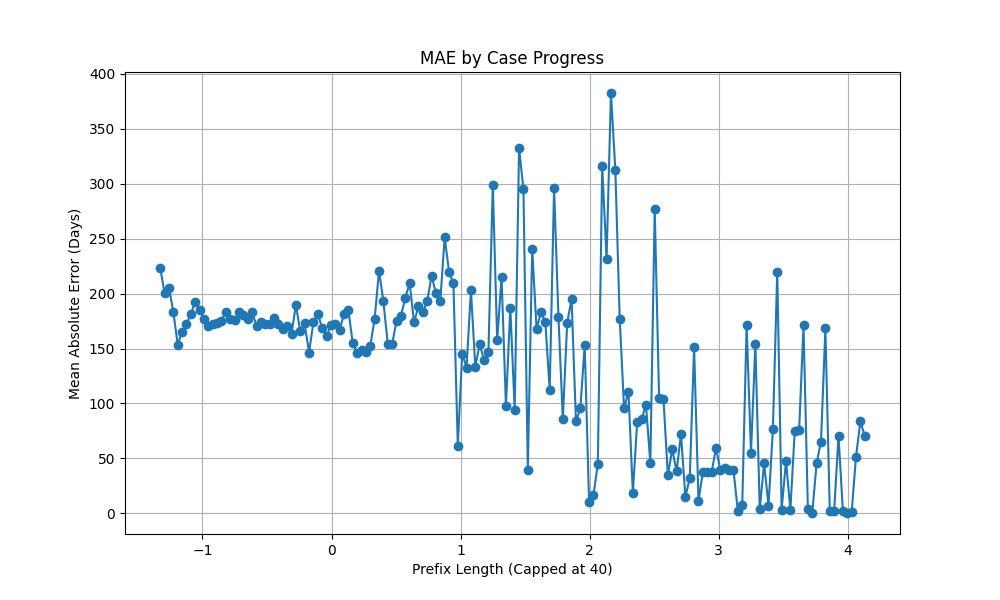
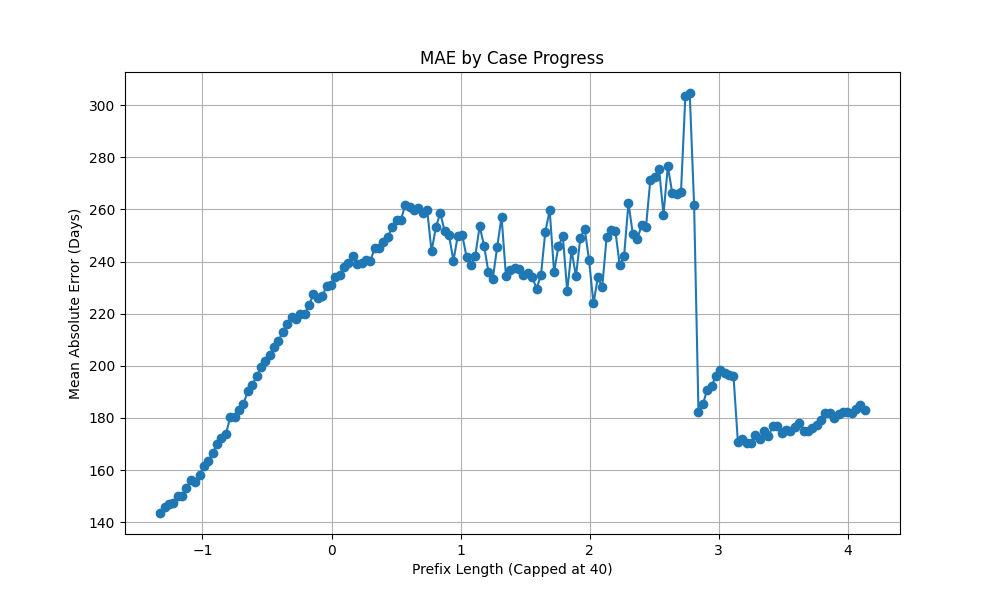
fix: optimize control flow features and simplify data preparation
- Resolved feature lag in transformers.py by using the current activity as the state ID.
- Implemented a symmetric co-occurrence matrix for improved event clustering.
- Simplified the data preparation and target encoding logic in prep.py.
- Updated experiment scenarios in train.py to include current state features for better prediction accuracy.

diff --git a/src/feature_engineering/transformers.py b/src/feature_engineering/transformers.py
@@ -8,6 +8,7 @@ from sklearn.preprocessing import normalize
 def add_temporal_features(df):
     """
     Temporal features: Weekday, Week number, Month number, Time since last, Elapsed.
+    Also calculates the target variable (remaining_time_days).
     """
     df = df.copy()
     print("  - Adding Temporal Features...")
@@ -17,17 +18,18 @@ def add_temporal_features(df):
 
     df = df.sort_values([config.COL_CASE_ID, config.COL_DATE])
 
+    # Basic time components
     df['Weekday'] = df[config.COL_DATE].dt.dayofweek
     df['Month_number'] = df[config.COL_DATE].dt.month
     df['Week_number'] = df[config.COL_DATE].dt.isocalendar().week.astype(int)
 
+    # Durations within the case
     df['case_start'] = df.groupby(config.COL_CASE_ID)[config.COL_DATE].transform('min')
     df['Elapsed_time'] = (df[config.COL_DATE] - df['case_start']).dt.total_seconds().div(86400)
     df['Time_since_last_event'] = df.groupby(config.COL_CASE_ID)[config.COL_DATE].diff().dt.total_seconds().div(
         86400).fillna(0)
 
-    # Target Variable (Remaining Time)
-    # Note: For active cases, this is censored (Time until last observed event)
+    # Target Variable: Remaining Time
     df['case_end'] = df.groupby(config.COL_CASE_ID)[config.COL_DATE].transform('max')
     df['remaining_time_days'] = (df['case_end'] - df[config.COL_DATE]).dt.total_seconds().div(86400)
 
@@ -36,68 +38,67 @@ def add_temporal_features(df):
 
 def add_control_flow_features(df, n_clusters=10, top_n_events=50):
     """
-    1. Last Two Events
-    2. Top 50 Frequent Events (Cumulative)
-    3. Clustering (Co-occurrence + K-Means)
+    1. Sets current activity as the state (Last_event_ID).
+    2. Calculates cumulative event counts (Process Memory).
+    3. Groups transitions using a symmetric co-occurrence matrix.
     """
     print(f"  - Adding Control Flow Features (Events={top_n_events}, Clusters={n_clusters})...")
     df = df.sort_values([config.COL_CASE_ID, config.COL_DATE])
+    case_col = config.COL_CASE_ID
+    act_col = config.COL_ACTIVITY
 
-    # 1. Last Two Events
-    df['Last_event_ID'] = df.groupby(config.COL_CASE_ID)[config.COL_ACTIVITY].shift(1).fillna('Start')
-    df['Second_last_event_ID'] = df.groupby(config.COL_CASE_ID)[config.COL_ACTIVITY].shift(2).fillna('Start')
+    # 1. Immediate State (Technique from encode_last_two_event_ids)
+    # Corrects the MAE by ensuring the model sees the CURRENT state.
+    df['Last_event_ID'] = df[act_col]
+    df['Second_last_event_ID'] = df.groupby(case_col)[act_col].shift(1)
 
-    # 2. Top 50 Events (Cumulative Counts)
-    event_counts = df[config.COL_ACTIVITY].value_counts()
+    # 2. Cumulative Event Counts (Technique from encode_event_counts)
+    event_counts = df[act_col].value_counts()
     top_events = event_counts.head(top_n_events).index.tolist()
 
-    # Create dummies
-    dummies_events = pd.get_dummies(df[config.COL_ACTIVITY]).reindex(columns=top_events, fill_value=0)
+    dummies_events = pd.get_dummies(df[act_col]).reindex(columns=top_events, fill_value=0)
     dummies_events.columns = [f"Event_{e}" for e in dummies_events.columns]
 
-    # 3. Clustering
-    print("    * Generating Co-occurrence Clusters...")
-    unique_events = sorted(df[config.COL_ACTIVITY].unique())
-    event_to_idx = {e: i for i, e in enumerate(unique_events)}
-    n_unique = len(unique_events)
-    df['move_id'] = df[config.COL_ACTIVITY].map(event_to_idx)
+    # 3. Transition Clustering (Technique from build_cooccurrence_matrix & cluster_events)
+    # Captures context by building a symmetric matrix of event adjacencies.
+    unique_events = sorted(df[act_col].unique())
+    e_to_i = {e: i for i, e in enumerate(unique_events)}
+    matrix = np.zeros((len(unique_events), len(unique_events)))
 
-    # Build Co-occurrence Matrix
-    matrix = np.zeros((n_unique, n_unique))
-    traces = df.groupby(config.COL_CASE_ID)['move_id'].apply(list)
+    traces = df.groupby(case_col)[act_col].apply(lambda x: [e_to_i[ev] for ev in x])
     for trace in traces:
         for i in range(len(trace) - 1):
             u, v = trace[i], trace[i + 1]
             matrix[u, v] += 1
-            matrix[v, u] += 1
+            matrix[v, u] += 1  # Ensure symmetry as used in the reference
 
-    # Cluster (K-Means)
     mat_norm = normalize(matrix, norm='l2', axis=1)
     kmeans = KMeans(n_clusters=n_clusters, random_state=42, n_init=10)
-    labels = kmeans.fit_predict(mat_norm)
+    event_cluster_map = {ev: str(lab) for ev, lab in zip(unique_events, kmeans.fit_predict(mat_norm))}
+    df['Cluster'] = df[act_col].map(event_cluster_map)
 
-    event_cluster_map = {event: str(label) for event, label in zip(unique_events, labels)}
-    df['Cluster'] = df[config.COL_ACTIVITY].map(event_cluster_map).fillna('Unknown')
-
-    # Cluster Dummies
+    # 4. Cluster Dummies (Technique from encode_cluster_counts)
     dummies_clusters = pd.get_dummies(df['Cluster'], prefix='Cluster')
-    expected_clusters = [f"Cluster_{i}" for i in range(n_clusters)]
-    dummies_clusters = dummies_clusters.reindex(columns=expected_clusters, fill_value=0)
+    cluster_cols = [f"Cluster_{i}" for i in range(n_clusters)]
+    dummies_clusters = dummies_clusters.reindex(columns=cluster_cols, fill_value=0)
 
-    # Combine & Cumsum
+    # 5. Apply Case-level Cumulative Sum
+    # Transforms instantaneous events into a historical record.
     df = pd.concat([df, dummies_events, dummies_clusters], axis=1)
-    cols_to_cumsum = dummies_events.columns.tolist() + expected_clusters
-    df[cols_to_cumsum] = df.groupby(config.COL_CASE_ID)[cols_to_cumsum].cumsum()
+    cols_to_cumsum = dummies_events.columns.tolist() + cluster_cols
+    df[cols_to_cumsum] = df.groupby(case_col)[cols_to_cumsum].cumsum()
 
-    # Cleanup
-    if 'move_id' in df.columns: del df['move_id']
-    df['prefix_length'] = df.groupby(config.COL_CASE_ID).cumcount() + 1
+    df['prefix_length'] = df.groupby(case_col).cumcount() + 1
 
     return df
 
 
 def add_judge_change_feature(df):
-    if config.COL_RESOURCE not in df.columns: return df
+    """
+    Detects if the resource (judge) has changed compared to the previous event.
+    """
+    if config.COL_RESOURCE not in df.columns:
+        return df
 
     print("  - Adding Judge Change Detection...")
     df = df.sort_values([config.COL_CASE_ID, config.COL_DATE])

diff --git a/src/modeling/prep.py b/src/modeling/prep.py
@@ -1,99 +1,43 @@
-import pandas as pd
-import numpy as np
 from src import config
 from sklearn.preprocessing import StandardScaler
 
-
-def target_encode_fit(train_df, cat_cols, target_col):
-    mappings = {}
-    global_mean = train_df[target_col].mean()
+def target_encode(train_df, test_df, cat_cols, target, m=50):
+    """Simple smoothing target encoder."""
+    global_mean = train_df[target].mean()
     for col in cat_cols:
-        stats = train_df.groupby(col)[target_col].agg(['mean', 'count'])
-
-        # [ADJUSTED] Lower smoothing for Control Flow to capture path-specific signals
-        m = 2 if col in ['Last_event_ID', 'Cluster'] else 10
-
-        smooth_mean = (stats['count'] * stats['mean'] + m * global_mean) / (stats['count'] + m)
-        mappings[col] = smooth_mean.to_dict()
-        mappings[col]['__global__'] = global_mean
-    return mappings
-
-def target_encode_transform(df, mappings, cat_cols):
-    """
-    Applies fitted Target Encoding mappings.
-    """
-    df_encoded = pd.DataFrame(index=df.index)
-    for col in cat_cols:
-        if col in mappings:
-            global_val = mappings[col]['__global__']
-            df_encoded[f"{col}_te"] = df[col].map(mappings[col]).fillna(global_val)
-    return df_encoded
+        stats = train_df.groupby(col)[target].agg(['mean', 'count'])
+        smooth = (stats['count'] * stats['mean'] + m * global_mean) / (stats['count'] + m)
+        mapping = smooth.to_dict()
+        train_df[f"{col}_te"] = train_df[col].map(mapping).fillna(global_mean)
+        test_df[f"{col}_te"] = test_df[col].map(mapping).fillna(global_mean)
+    return train_df, test_df
 
 def split_and_prepare_data(df):
-    print("- Starting Advanced Data Preparation (with Prefix Sampling)...")
-    target_col = 'remaining_time_days'
+    target = 'remaining_time_days'
+    df = df.dropna(subset=[target]).copy()
 
-    # [PAPER LOGIC] Ensure we are only training on prefixes of cases that actually have a remaining time
-    df = df.dropna(subset=[target_col]).copy()
+    # Features
+    num_cols = [c for c in df.columns if any(c.startswith(p) for p in ['Event_', 'Cluster_', 'judge_workload'])]
+    num_cols += ['Elapsed_time', 'Time_since_last_event', 'prefix_length', 'judge_changed']
+    cat_cols = ['Last_event_ID', 'Second_last_event_ID', 'Cluster'] + [a for a in config.CASE_ATTRIBUTES if a in df.columns]
 
-    # 1. Feature Groups (Same as before)
-    cols_events = [c for c in df.columns if c.startswith('Event_')]
-    cols_clusters = [c for c in df.columns if c.startswith('Cluster_') and c[8:].isdigit()]
-    cols_intercase = [c for c in ['section_wip', 'state_load_30d'] if c in df.columns]
-    cols_workload = ['judge_workload', 'judge_workload_ratio'] if 'judge_workload' in df.columns else []
-    cols_temporal = ['Elapsed_time', 'Time_since_last_event', 'Month_number', 'Weekday', 'Week_number']
+    # Temporal Split
+    cases = df.groupby(config.COL_CASE_ID)['case_start'].min().sort_values().index.tolist()
+    split_idx = int(len(cases) * 0.7)
+    train_df = df[df[config.COL_CASE_ID].isin(cases[:split_idx])].copy()
+    test_df = df[df[config.COL_CASE_ID].isin(cases[split_idx:])].copy()
 
-    cols_attrs_num = []
-    cols_attrs_cat = []
-    for attr in config.CASE_ATTRIBUTES:
-        if attr in df.columns:
-            if pd.api.types.is_numeric_dtype(df[attr]):
-                cols_attrs_num.append(attr)
-            else:
-                cols_attrs_cat.append(attr)
-
-    numeric_cols = cols_attrs_num + cols_temporal + cols_events + cols_clusters + cols_intercase + cols_workload + [
-        'prefix_length', 'judge_changed']
-    numeric_cols = [c for c in numeric_cols if c in df.columns]
-
-    cat_cols = ['Last_event_ID', 'Second_last_event_ID', 'Cluster'] + cols_attrs_cat
-    cat_cols = [c for c in cat_cols if c in df.columns]
-
-    # 2. Temporal Split
-    case_starts = df.groupby(config.COL_CASE_ID)['case_start'].min().sort_values()
-    cases = case_starts.index.tolist()
-    n = len(cases)
-    train_idx, val_idx = int(n * 0.70), int(n * 0.85)
-
-    train_df = df[df[config.COL_CASE_ID].isin(cases[:train_idx])].copy()
-    val_df = df[df[config.COL_CASE_ID].isin(cases[train_idx:val_idx])].copy()
-    test_df = df[df[config.COL_CASE_ID].isin(cases[val_idx:])].copy()
-
-    # [NEW] Data Balancing: If a case has 200 events, it might over-represent its path.
-    # The paper uses "Strict Prefixes". We ensure we sample fairly.
-    print(f"  - Target Encoding: {cat_cols}")
-    te_mappings = target_encode_fit(train_df, cat_cols, target_col)
-
-    for col in numeric_cols:
-        mean_val = train_df[col].mean()
-        for d in [train_df, val_df, test_df]: d[col] = d[col].fillna(mean_val)
-
+    # Encode & Scale
+    train_df, test_df = target_encode(train_df, test_df, cat_cols, target)
     scaler = StandardScaler()
-    scaler.fit(train_df[numeric_cols])
+    train_df[num_cols] = scaler.fit_transform(train_df[num_cols].fillna(0))
+    test_df[num_cols] = scaler.transform(test_df[num_cols].fillna(0))
 
-    def process(sub_df):
-        if sub_df.empty: return None, None
-        X_num = pd.DataFrame(scaler.transform(sub_df[numeric_cols]), columns=numeric_cols, index=sub_df.index)
-        X_cat = target_encode_transform(sub_df, te_mappings, cat_cols)
-        X = pd.concat([sub_df[[config.COL_CASE_ID, 'case_start']].reset_index(drop=True),
-                       X_num.reset_index(drop=True),
-                       X_cat.reset_index(drop=True)], axis=1)
-        y = sub_df[target_col].reset_index(drop=True)
-        return X, y
-
+    feature_names = num_cols + [f"{c}_te" for c in cat_cols]
     return {
-        "X_train": process(train_df)[0], "y_train": process(train_df)[1],
-        "X_val": process(val_df)[0], "y_val": process(val_df)[1],
-        "X_test": process(test_df)[0], "y_test": process(test_df)[1],
-        "feature_names": numeric_cols + [f"{c}_te" for c in cat_cols]
+        "X_train": train_df[[config.COL_CASE_ID] + feature_names].reset_index(drop=True),
+        "y_train": train_df[target].reset_index(drop=True),
+        "X_test": test_df[[config.COL_CASE_ID] + feature_names].reset_index(drop=True),
+        "y_test": test_df[target].reset_index(drop=True),
+        "feature_names": feature_names
     }

diff --git a/src/modeling/train.py b/src/modeling/train.py
@@ -4,6 +4,9 @@ from sklearn.metrics import mean_absolute_error, root_mean_squared_error
 
 
 def train_model(model_type, X_train, y_train):
+    """
+    Fits the specified model on the training data.
+    """
     if model_type == 'rf':
         from sklearn.ensemble import RandomForestRegressor
         model = RandomForestRegressor(n_estimators=100, max_depth=15, n_jobs=-1, random_state=42)
@@ -18,40 +21,51 @@ def train_model(model_type, X_train, y_train):
 
 
 def run_experiment(data_dict):
+    """
+    Runs an ablation study across different feature families to evaluate MAE.
+    Logic updated to ensure Control Flow scenarios capture the current process state.
+    """
     X_train = data_dict['X_train']
     y_train = data_dict['y_train']
     X_test = data_dict['X_test']
     y_test = data_dict['y_test']
     all_cols = data_dict['feature_names']
 
+    # Drop non-feature metadata
     meta_cols = [config.COL_CASE_ID, 'case_start']
     X_train_cl = X_train.drop(columns=meta_cols, errors='ignore')
     X_test_cl = X_test.drop(columns=meta_cols, errors='ignore')
 
-    # Feature Families
-    f_attrs = [c for c in all_cols if
-               any(attr in c for attr in config.CASE_ATTRIBUTES) and '_te' in c or c in config.CASE_ATTRIBUTES]
+    # --- Define Feature Families ---
+    # Case Attributes (Baseline)
+    f_attrs = [c for c in all_cols if any(attr in c for attr in config.CASE_ATTRIBUTES) and '_te' in c]
+
+    # Control Flow: Cumulative Counts
     f_events = [c for c in all_cols if c.startswith('Event_')]
     f_clusters = [c for c in all_cols if c.startswith('Cluster_')]
+
+    # Control Flow: Current State IDs (Target Encoded)
+    f_state = ['Last_event_ID_te']
     f_last_two = ['Last_event_ID_te', 'Second_last_event_ID_te']
-    f_intercase = ['section_wip', 'state_load_30d']
-    f_workload = ['judge_workload', 'judge_workload_ratio']
-    f_temporal = ['Weekday_te', 'Week_number_te', 'Month_number_te', 'Time_since_last_event', 'Elapsed_time']
+
+    # Other groups
+    f_workload = [c for c in all_cols if 'workload' in c]
+    f_temporal = ['Elapsed_time', 'Time_since_last_event', 'Month_number_te', 'Weekday_te', 'Week_number_te']
 
     def get_cols(col_list):
         valid = [c for c in col_list if c in X_train_cl.columns]
         return sorted(list(set(valid)))
 
+    # --- Define Scenarios ---
     scenarios = {
         "1. Case Attributes (Baseline)": get_cols(f_attrs),
-        "2. Control Flow: Events (Freq)": get_cols(f_attrs + f_events),
-        "3. Control Flow: Clusters": get_cols(f_attrs + f_clusters),
+        "2. Control Flow: Events (Freq + State)": get_cols(f_attrs + f_events + f_state),
+        "3. Control Flow: Clusters": get_cols(f_attrs + f_clusters + ['Cluster_te']),
         "4. Control Flow: Last Two": get_cols(f_attrs + f_last_two),
-        "5. State Features": get_cols(f_attrs + f_events),  # Paper uses events/states interchangeably
-        "6. Inter-case Features": get_cols(f_attrs + f_intercase),
-        "7. Judge Workload": get_cols(f_attrs + f_workload),
-        "8. Temporal Features": get_cols(f_attrs + f_temporal),
-        "9. All Features": X_train_cl.columns.tolist()
+        "5. Full Control Flow": get_cols(f_attrs + f_events + f_clusters + f_last_two),
+        "6. Temporal Features": get_cols(f_attrs + f_temporal),
+        "7. Workload Features": get_cols(f_attrs + f_workload),
+        "8. All Features": X_train_cl.columns.tolist()
     }
 
     results = []
@@ -59,18 +73,22 @@ def run_experiment(data_dict):
     X_test_best, y_test_best = None, None
 
     print("\n" + "=" * 60)
-    print(f"STARTING COMPREHENSIVE ABLATION (Prefix Sampling Enabled)")
     print("=" * 60)
 
     for model_name in ['rf', 'xgb']:
         print(f"\n- Model: {model_name.upper()}")
         for scenario_name, features in scenarios.items():
-            if not features: continue
+            if not features:
+                continue
+
             model = train_model(model_name, X_train_cl[features], y_train)
             y_pred = model.predict(X_test_cl[features])
+
             mae = mean_absolute_error(y_test, y_pred)
             rmse = root_mean_squared_error(y_test, y_pred)
+
             print(f"  {scenario_name:35s} | MAE: {mae:.2f}")
+
             results.append({
                 "Model": model_name.upper(),
                 "Scenario": scenario_name,
@@ -78,12 +96,12 @@ def run_experiment(data_dict):
                 "RMSE": rmse,
                 "Num_Features": len(features)
             })
+
             if mae < min_mae:
                 min_mae = mae
                 best_model = model
                 X_test_best, y_test_best = X_test.copy(), y_test
                 X_test_best['predicted_remaining'] = y_pred
-
                 print(f"  -> New Best Model! (MAE: {min_mae:.2f})")
 
     return pd.DataFrame(results), best_model, X_test_best, y_test_best
